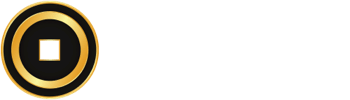
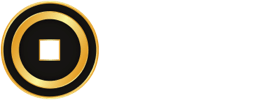
iOS release 1.2

Changed region(s): [[0.0, 0.0, 0.3824, 0.99]]

diff --git a/src/containers/Dashboard/Send.js b/src/containers/Dashboard/Send.js
@@ -436,23 +436,25 @@ class Send extends Component<{}> {
                                 <Icon style={styles.requestRowActionLinkIcon} name='paste'/>
                                 <Text  style={styles.requestRowActionLinkLabel}>Paste from Clipboard</Text>
                             </TouchableOpacity>
-                            {Platform.OS !== 'ios'?<Text  style={styles.requestRowActionLinkDiv}> / </Text>:null}
-                            {Platform.OS !== 'ios'?<TouchableOpacity style={styles.requestRowActionLink}
+                            <Text  style={styles.requestRowActionLinkDiv}> / </Text>
+                            <TouchableOpacity style={styles.requestRowActionLink}
                                 onPress={()=>{
                                     if(Platform.OS === 'ios'){
                                         this.props.customAction({lockApp:true});
-                                        Camera.checkDeviceAuthorizationStatus()
+                                        Camera.checkVideoAuthorizationStatus()
                                             .then(d=>{
                                                 this.setState({scanQR:true});
                                                 setTimeout(()=>this.props.customAction({lockApp:false}),500);
-                                            }).catch(e=>setTimeout(()=>this.props.customAction({lockApp:false}),500))
+                                            }).catch(e=>this.setState({scanQR:true},()=>
+                                                setTimeout(()=>this.props.customAction({lockApp:false}),500)));
+
                                     }else{
                                         this.setState({scanQR:true})
                                     }
                                 }}>
                                 <Icon style={styles.requestRowActionLinkIcon} name='qrcode'/>
                                 <Text  style={styles.requestRowActionLinkLabel}>Scan QR Code</Text>
-                            </TouchableOpacity>:null}
+                            </TouchableOpacity>
                         </View>
                         <Text style={styles.requestRowLabel}>Note</Text>
                         <View style={styles.hr}/>
@@ -466,6 +468,7 @@ class Send extends Component<{}> {
                                 style={styles.requestRowInput}
                                 placeholder={'Enter note (optional)'}
                                 value={this.state.note || ''}
+                                maxLength={50}
                                 onChangeText={(note) => note.length <= 50 &&
                                     this.setState({note})}
                             />
@@ -635,7 +638,7 @@ class Send extends Component<{}> {
                                     <Text  style={styles.notAuthorizedViewText}>
                                         Need permission to access Camera,{"\n"}
                                         Please go to <Text style={{fontWeight: 'bold'}}>Settings</Text> and allow{"\n"}
-                                        <Text style={{fontWeight: 'bold', color:'#E0AE27'}}>FLASH</Text> to access Camera
+                                        <Text style={{fontWeight: 'bold', color:'#E0AE27'}}>{Platform.OS === 'ios'?'FLASH Wallet':'FLASH'}</Text> to access Camera
                                     </Text>
                                     <Button
                                         style={{marginTop:15}}

diff --git a/src/containers/Dashboard/SecurityCenter.js b/src/containers/Dashboard/SecurityCenter.js
@@ -67,7 +67,7 @@ class SecurityCenter extends Component<{}> {
                                     Security Questions
                                 </Text>
                                 <Text style={styles.securityCenterTabNote}>
-                                    To recover your {Platform.OS === 'ios'?'Coinodes Wallet':'FLASH'} account if you forget password.
+                                    To recover your {Platform.OS === 'ios'?'FLASH Wallet':'FLASH'} account if you forget password.
                                 </Text>
                             </View>
                             <Icon style={styles.securityCenterTabRightIcon} name='angle-right'/>
@@ -81,7 +81,7 @@ class SecurityCenter extends Component<{}> {
                                     6-Digit PIN
                                 </Text>
                                 <Text style={styles.securityCenterTabNote}>
-                                    Protect your {Platform.OS === 'ios'?'Coinodes Wallet':'FLASH app'} from unauthorized access.
+                                    Protect your {Platform.OS === 'ios'?'FLASH Wallet':'FLASH app'} from unauthorized access.
                                 </Text>
                             </View>
                             <Icon style={styles.securityCenterTabRightIcon} name='angle-right'/>
@@ -96,7 +96,7 @@ class SecurityCenter extends Component<{}> {
                                     Two phase authentication
                                 </Text>
                                 <Text style={styles.securityCenterTabNote}>
-                                    Enable google authenticator to protect your {Platform.OS === 'ios'?'Coinodes Wallet':'FLASH'} account.
+                                    Enable google authenticator to protect your {Platform.OS === 'ios'?'FLASH Wallet':'FLASH'} account.
                                 </Text>
                             </View>
                             <Icon style={styles.securityCenterTabRightIcon} name='angle-right'/>
@@ -111,7 +111,7 @@ class SecurityCenter extends Component<{}> {
                                     Fingerprint Authentication
                                 </Text>
                                 <Text style={styles.securityCenterTabNote}>
-                                    Conveniently unlock your {Platform.OS === 'ios'?'Coinodes Wallet':'FLASH app'} with fingerprint.
+                                    Conveniently unlock your {Platform.OS === 'ios'?'FLASH Wallet':'FLASH app'} with fingerprint.
                                 </Text>
                             </View>
                             <Icon style={styles.securityCenterTabRightIcon} name='angle-right'/>

diff --git a/src/components/Transaction/RequestTab.js b/src/components/Transaction/RequestTab.js
@@ -97,6 +97,7 @@ export default class RequestTab extends Component {
                                                     placeholder={'Enter note (optional)'}
                                                     underlineColorAndroid='transparent'
                                                     value={this.state.note || ''}
+                                                    maxLength={50}
                                                     onChangeText={(note) => note.length <= 50 && this.setState({note})}
                                                 />
                                             </View>

diff --git a/src/containers/Dashboard/FingerPrint.js b/src/containers/Dashboard/FingerPrint.js
@@ -58,7 +58,7 @@ class FingerPrint extends Component<{}> {
                     </View>
                     <View>
                         <Text style={styles.fingerprintNote}>
-                            Use your fingerprint to unlock your {Platform.OS === 'ios'?'Coinodes Wallet':'FLASH app'}.
+                            Use your fingerprint to unlock your {Platform.OS === 'ios'?'FLASH Wallet':'FLASH app'}.
                         </Text>
                         <View style={styles.fingerprintSwitch}>
                             <Text style={styles.fingerprintSwitchLabel}>

diff --git a/src/containers/Dashboard/SetOrUpdatePIN.js b/src/containers/Dashboard/SetOrUpdatePIN.js
@@ -139,7 +139,7 @@ class SetOrUpdatePIN extends Component<{}> {
                 <View style={styles.keypad}>
                     <Text style={styles.pinNote}>
                         {"Remember this PIN, If you forget it, You won't be able to access your "+
-                            (Platform.OS === 'ios'?'Coinodes Wallet':'FLASH app')}
+                            (Platform.OS === 'ios'?'FLASH Wallet':'FLASH app')}
                     </Text>
                     <View style={styles.keypadBox}>
                         <View style={styles.keypadRow}>

diff --git a/src/containers/Dashboard/Request.js b/src/containers/Dashboard/Request.js
@@ -286,6 +286,7 @@ class Request extends Component<{}> {
                                 style={styles.requestRowInput}
                                 placeholder={'Enter note (optional)'}
                                 value={this.state.note || ''}
+                                maxLength={50}
                                 onChangeText={(note) => note.length <= 50 &&
                                     this.setState({note})}
                             />

diff --git a/src/assets/styles/home.js b/src/assets/styles/home.js
@@ -12,7 +12,7 @@ const styles = StyleSheet.create({
     headerTextLogo:{
         resizeMode: 'contain',
         height: 40,
-        width: 350*40/100,
+        width: 272*40/100,
     },
     headerBalanceBox:{
         width: width/2,

diff --git a/src/config.js b/src/config.js
@@ -4,7 +4,7 @@
 
 export const  RESOURCE = 'app';
 export const  APP_MODE = 'PROD'; // DEV , PROD
-export const  APP_VERSION = 13;
+export const  APP_VERSION = 14;
 
 let appUrl;
 
